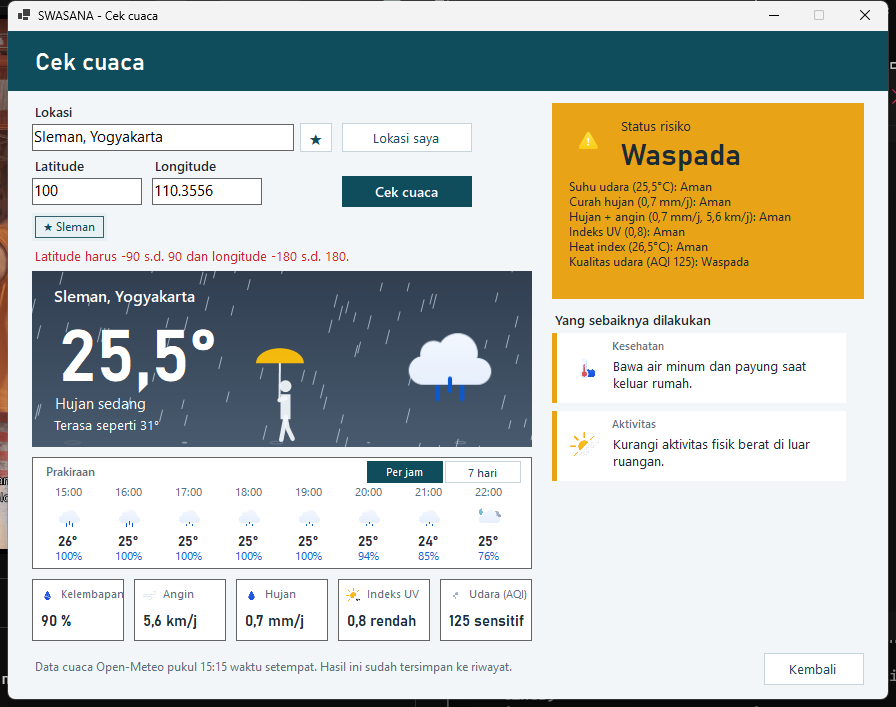
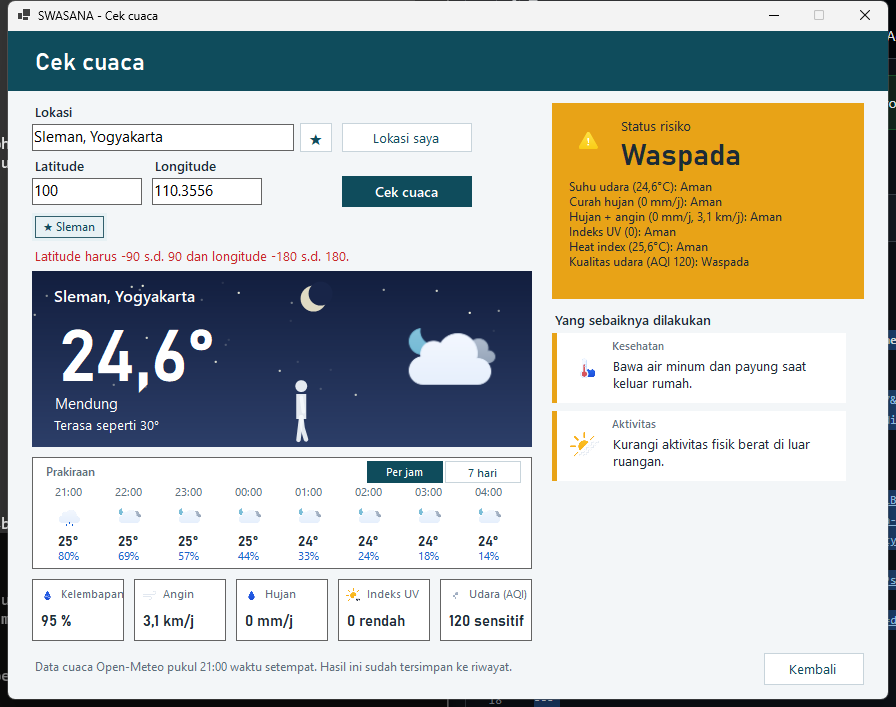
docs: perbarui screenshot dan hasil pengujian dari kode terbaru

diff --git a/PENGUJIAN.md b/PENGUJIAN.md
@@ -1,6 +1,6 @@
 # Pengujian SWASANA (MVP Modul 10)
 
-Pengujian dilakukan pada 22/11/2026 terhadap `Swasana.exe` hasil publish (Windows 11, PostgreSQL 18). Database `swasana_db` dihapus dulu sebelum pengujian, supaya pembuatan database otomatis ikut teruji.
+Pengujian terakhir dilakukan pada 22/11/2026 malam (sekitar pukul 21.30 WIB) terhadap kode `main` terbaru (Windows 11, PostgreSQL 18). Database `swasana_db` dihapus dulu sebelum pengujian, supaya pembuatan database otomatis ikut teruji. Karena memakai cuaca sungguhan, nilai suhu dan status di bawah mengikuti kondisi saat pengujian.
 Langkah-langkahnya dijalankan otomatis lewat UI Automation. Bukti screenshot ada di folder [`docs/pengujian/`](docs/pengujian/).
 
 ## 1. Pengujian fungsional (black box)
@@ -17,18 +17,20 @@ Langkah-langkahnya dijalankan otomatis lewat UI Automation. Bukti screenshot ada
 | T08 | Cek cuaca | Lokasi kosong | Pesan validasi di form | *"Isi nama lokasi dulu, misalnya Sleman."* | Lulus |
 | T09 | Cek cuaca | Lokasi `Xyzqwerty` | Pesan lokasi tidak ditemukan | *"Lokasi "Xyzqwerty" tidak ditemukan. ..."* | Lulus |
 | T10 | Saran lokasi (Web API) | Ketik `Slem`, lalu tekan Enter | Daftar saran muncul; memilih saran mengisi nama dan koordinat lalu langsung mengecek cuaca | 8 saran tampil; terpilih *Sleman, Yogyakarta* (-7.7156, 110.3556) | Lulus |
-| T11 | Cuaca + risiko (Web API) | Hasil cek Sleman | Suhu, kondisi, detail, prakiraan per jam, status, rincian 6 aturan beserta nilainya, dan rekomendasi tampil, lalu tersimpan | 25,5°, Hujan sedang, 90 %, AQI 125 → **Waspada** (dari aturan kualitas udara); tersimpan | Lulus |
+| T11 | Cuaca + risiko (Web API) | Hasil cek Sleman | Suhu, kondisi, detail, prakiraan per jam, status, rincian 6 aturan beserta nilainya, dan rekomendasi tampil, lalu tersimpan | 24,6°, Mendung, 95 %, AQI 120 → **Waspada** (dari aturan kualitas udara); tersimpan | Lulus |
 | T20 | Lokasi favorit | Klik ☆ pada Sleman | Lokasi tersimpan sebagai favorit, muncul tombol cepat, bintang menjadi ★ | *"Sleman, Yogyakarta disimpan ke favorit."*, tombol ★ Sleman muncul | Lulus |
 | T21 | Prakiraan 7 hari | Klik **7 hari** | Tampil 7 kolom hari: ikon, suhu maks/min, peluang hujan | 7 kolom tampil | Lulus |
 | T12 | Validasi koordinat | Latitude `100` | Pesan validasi di form | *"Latitude harus -90 s.d. 90 dan longitude -180 s.d. 180."* | Lulus |
-| T13 | Status Waspada | Lokasi `Ho Chi Minh` | Status **Waspada**, kartu rekomendasi Waspada | 34,3°, **Waspada** | Lulus |
-| T14 | Status Bahaya + koordinat manual | Alice Springs, lat `-23,698` lon `133,8807` (pakai koma) | Koma diterima; status **Bahaya** | 37°, **Bahaya** (suhu), heat index 35,2 °C Waspada, 3 kartu rekomendasi | Lulus |
+| T13 | Status sesuai aturan | Lokasi `Ho Chi Minh` | Status dihitung dari 6 aturan, kartu rekomendasi sesuai status | 28,2°, Cerah, **Waspada**; kartu saran Waspada | Lulus |
+| T14 | Koordinat manual | Alice Springs, lat `-23,698` lon `133,8807` (pakai koma) | Koma diterima; status dihitung dari 6 aturan | 28,1° (malam), semua aturan Aman → **Aman** | Lulus |
 | T22 | Lokasi favorit | Klik tombol **★ Sleman** | Cuaca Sleman langsung dicek sekali klik | Sleman, Yogyakarta, **Waspada** | Lulus |
 | T15 | Navigasi | Klik **Kembali** | Menu tampil lagi | Menu tampil | Lulus |
 | T16 | Riwayat + grafik tren | Buka **Riwayat** | Semua pengecekan user tampil, terbaru di atas; grafik suhu maks/min harian dari `weather_data` | 4 data; grafik tampil (1 hari data, dengan petunjuk bahwa tren butuh ≥ 2 hari) | Lulus |
 | T17 | Riwayat | Cari `hO cHi` | Hanya Ho Chi Minh tampil (tidak peka huruf besar/kecil) | 1 data | Lulus |
 | T18 | Riwayat | Cari `Bandung` | Pesan riwayat kosong | 0 data, pesan *"Tidak ada riwayat untuk "Bandung"..."* | Lulus |
 | T19 | Keluar | Klik **Keluar** | Aplikasi tertutup | Proses berhenti | Lulus |
+
+Ketiga status (Aman, Waspada, Bahaya) beserta batas setiap aturan juga diuji lewat unit test, karena status dari cuaca sungguhan bergantung pada kondisi saat pengujian. Pada pengujian siang hari sebelumnya, Alice Springs (37 °C) menghasilkan status **Bahaya**.
 
 Diuji manual (di luar skrip otomatis):
 
